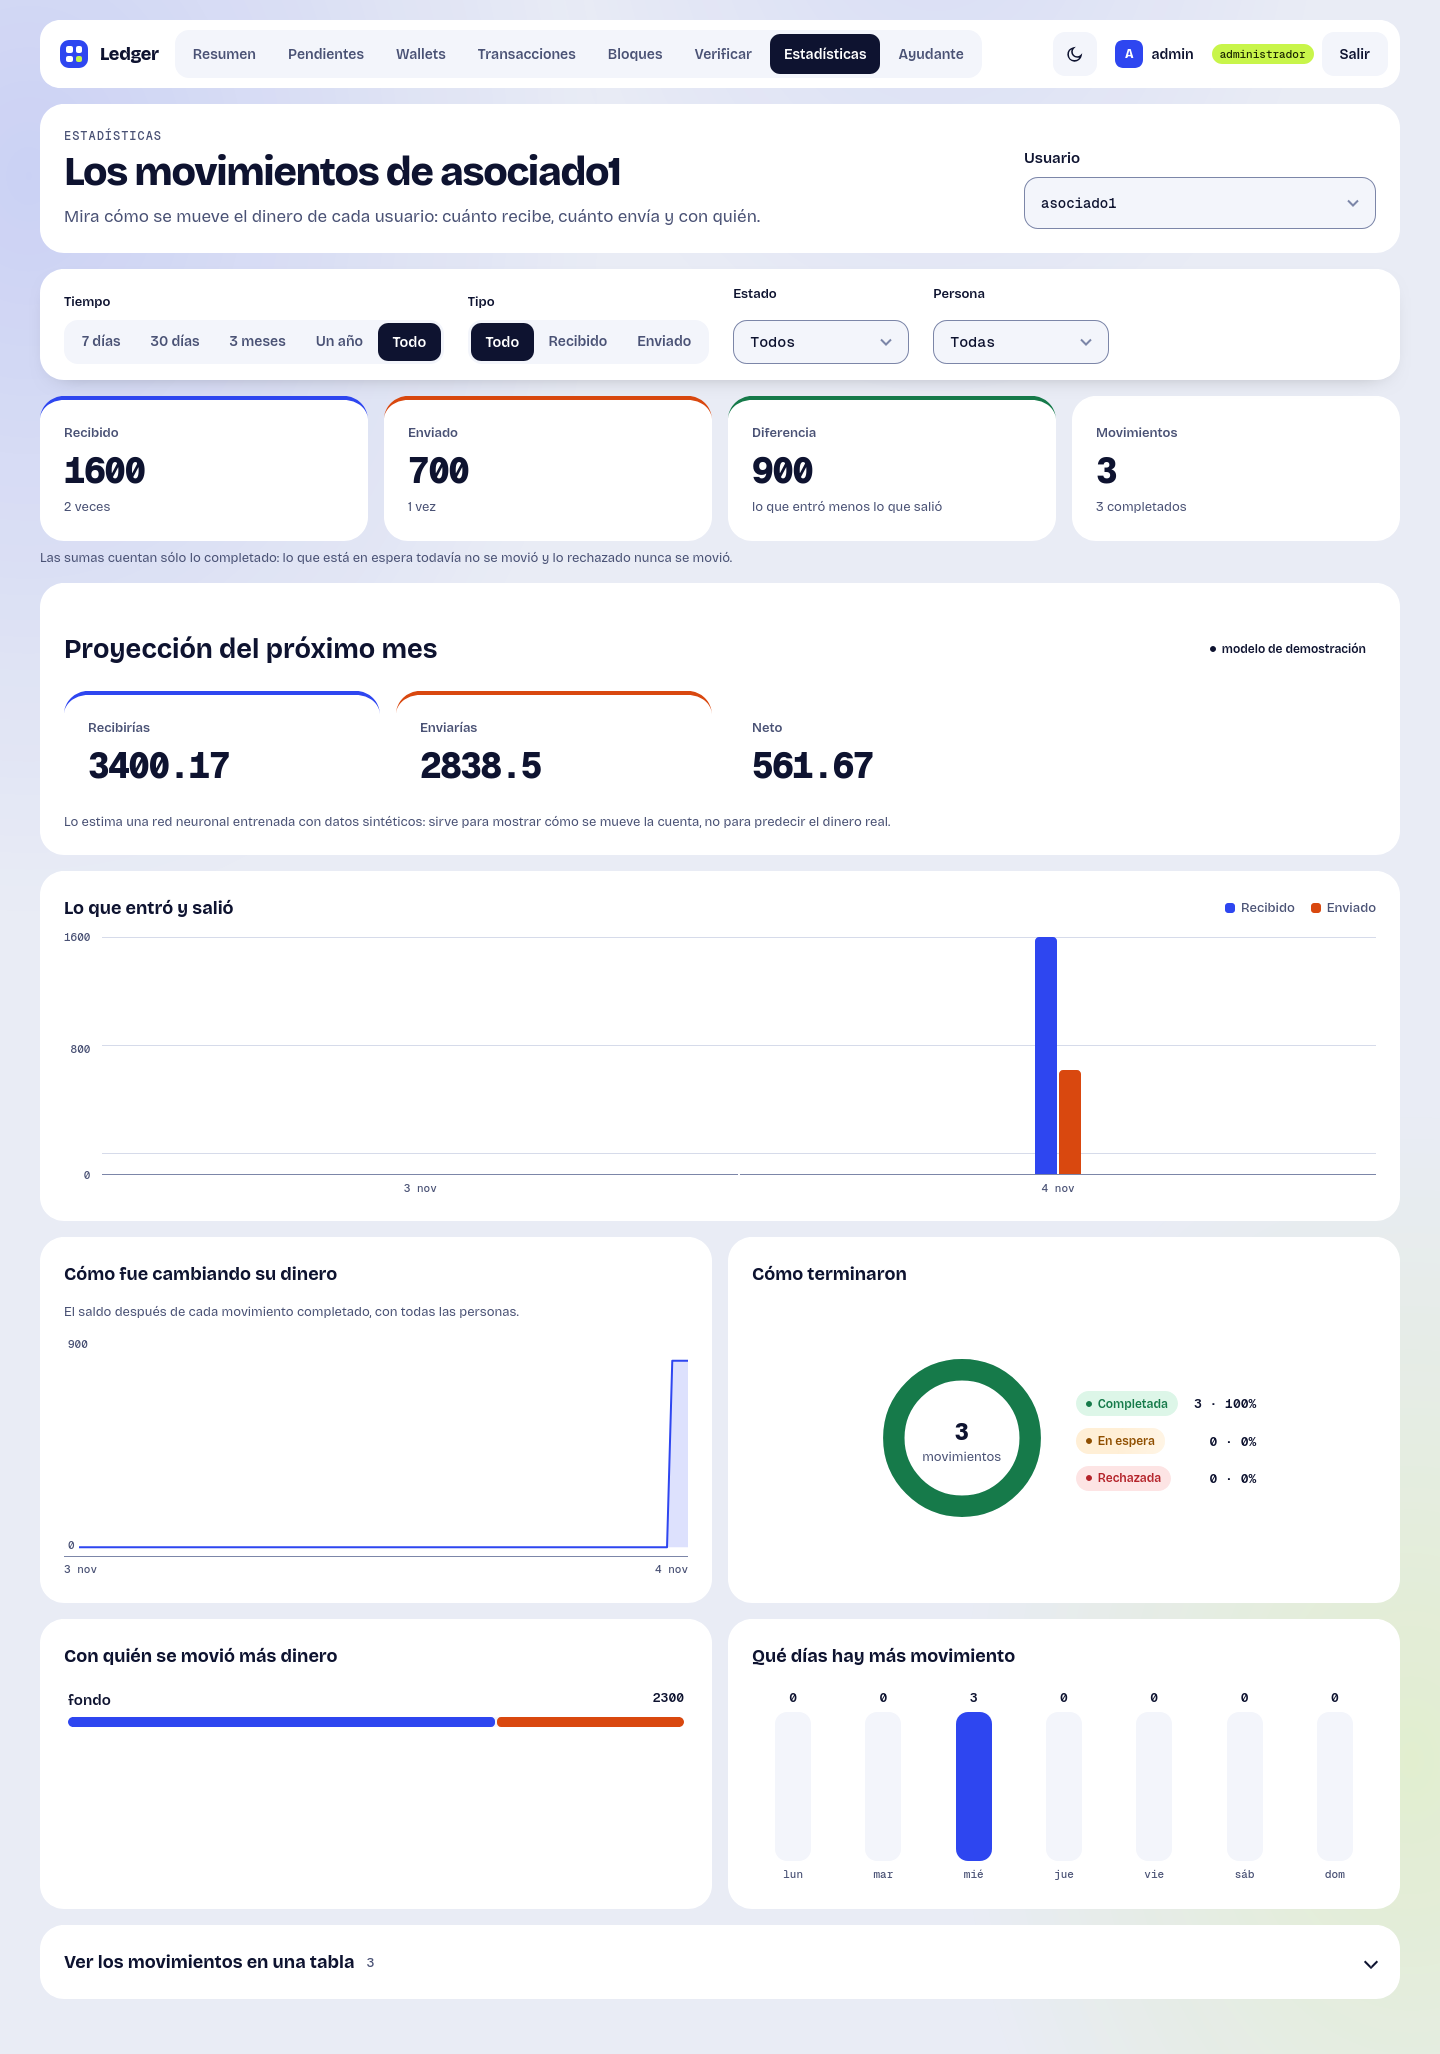
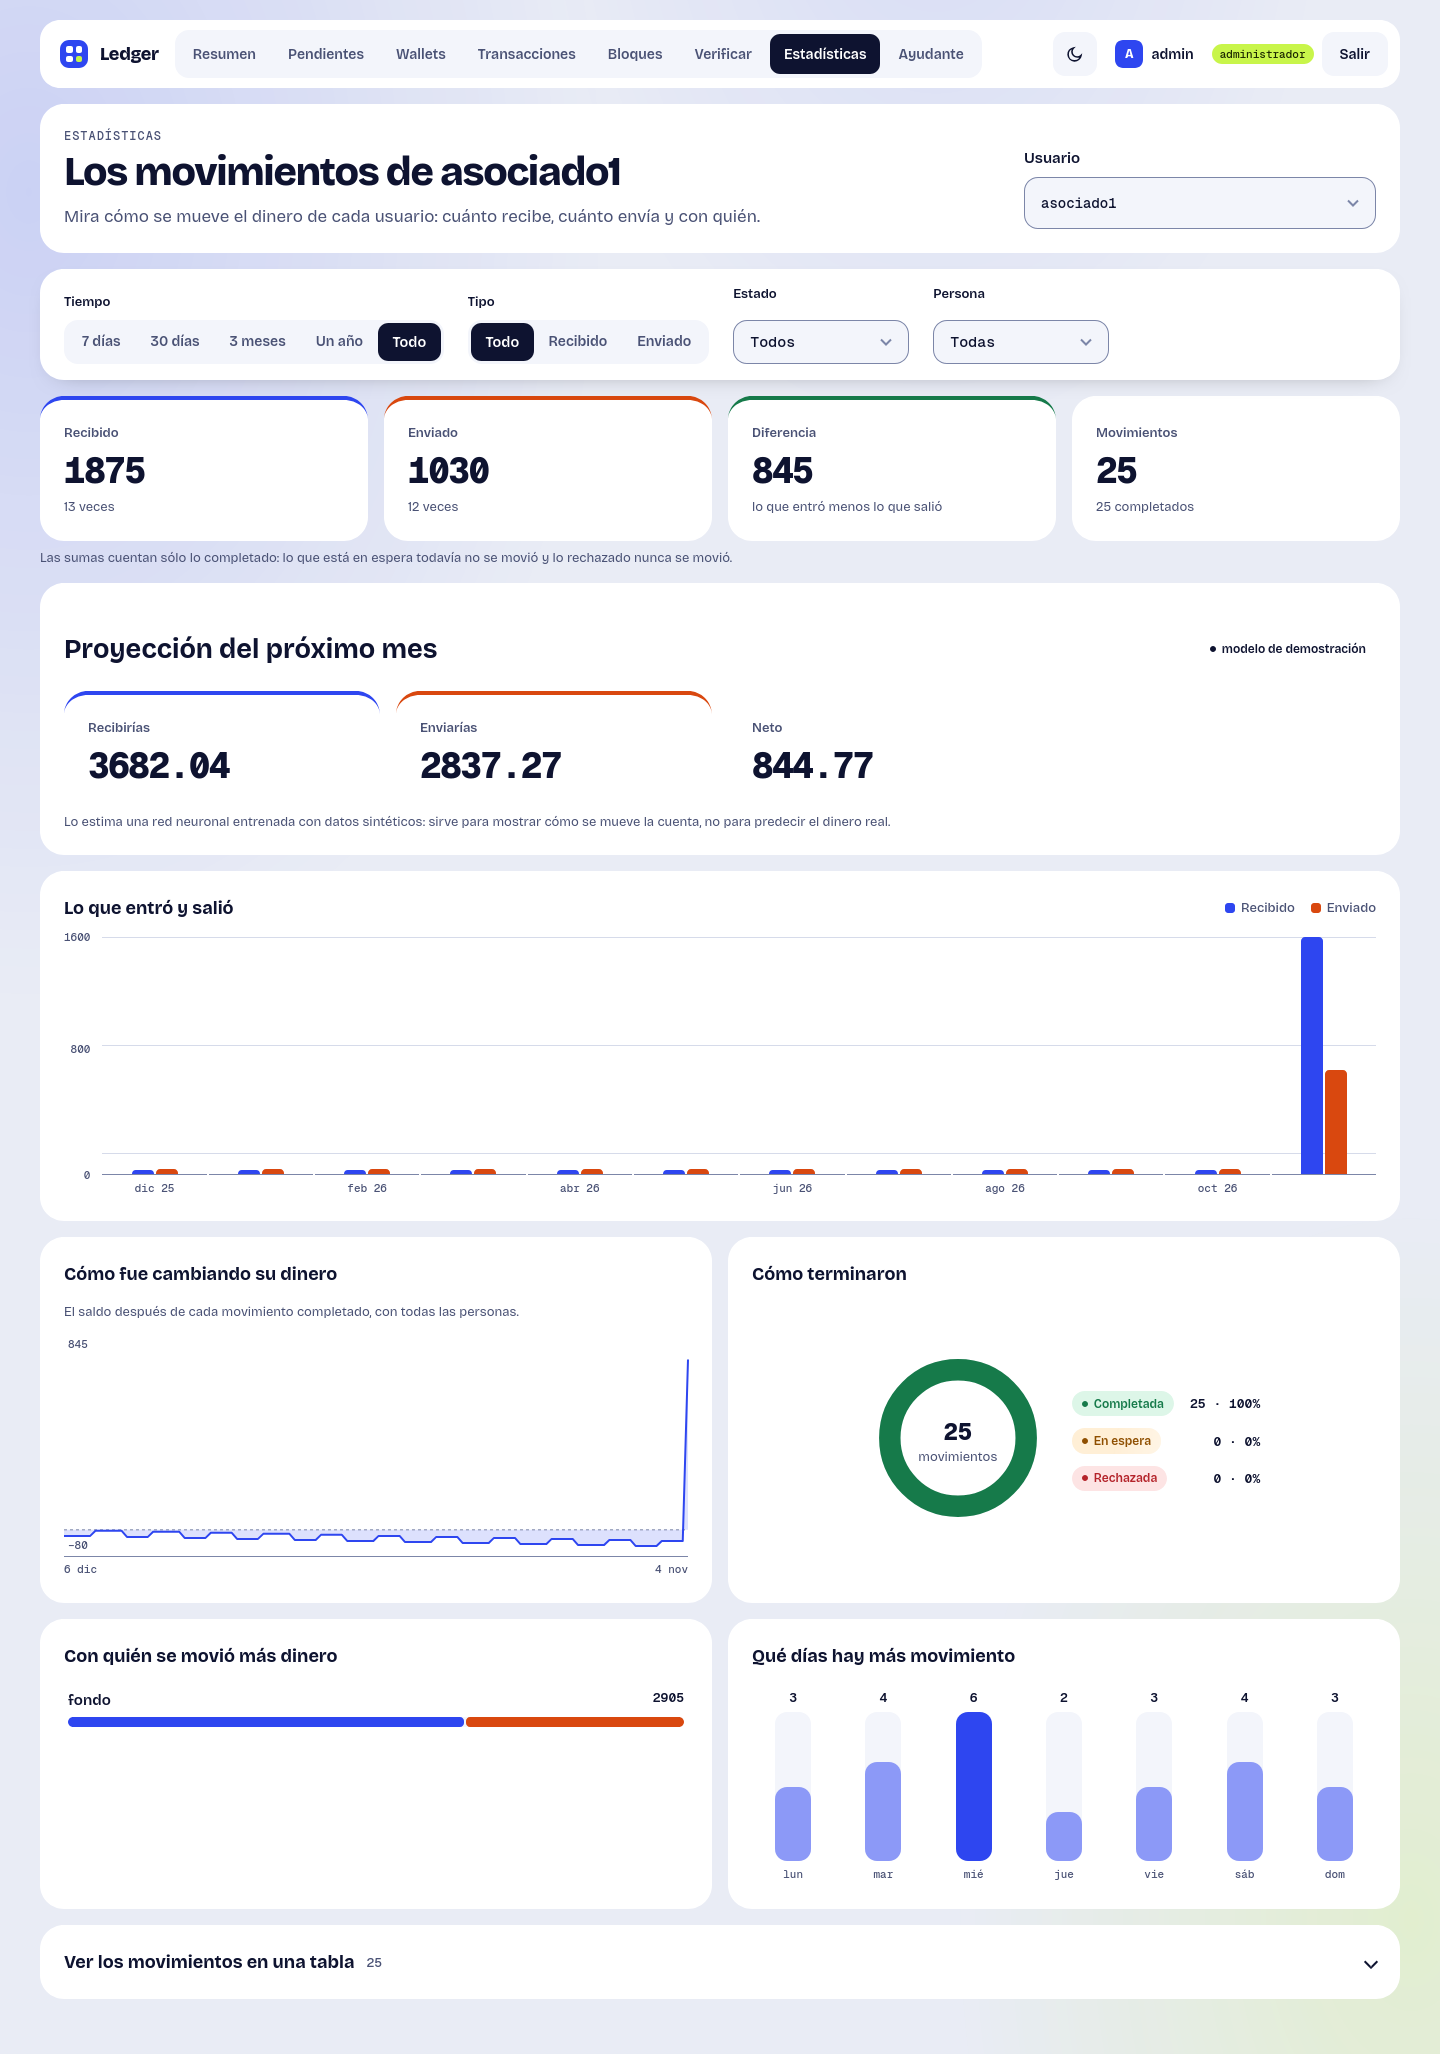
feat: historial de demostración de doce meses para las estadísticas
La semilla deja movimientos de un solo día: alcanza para ver la cadena, pero no una tendencia. El módulo nuevo agrega doce meses de aportes y retiros a las cuentas de demostración con el mismo camino que la aplicación: firma con la llave del emisor, validación del saldo y agrupación en un bloque encadenado.

Es idempotente: si el fondo ya tiene movimientos de más de 45 días, no hace nada. Los bloques nuevos llevan fechas del pasado y se agregan al final de la cadena, así que la verificación sigue siendo válida (comprueba el encadenamiento, no el orden cronológico).

Se regeneran las capturas de estadísticas con los doce meses, la evidencia de consulta con los conteos nuevos y la nota de la transcripción del flujo.

diff --git a/src/historial_demo.py b/src/historial_demo.py
@@ -1,0 +1,167 @@
+"""Historial de demostración: doce meses de aportes y retiros para las cuentas de prueba.
+
+La semilla deja el caso del eje con unos pocos movimientos del mismo día, que alcanza
+para mostrar que la cadena funciona pero no para mirar una tendencia: la página de
+estadísticas filtra por período y la proyección mira los últimos treinta y sesenta días,
+y con un solo día no hay nada que ver.
+
+Este módulo agrega doce meses de historia a las wallets que ya sembró el arranque, con
+el mismo camino que usa la aplicación: cada transacción se firma con la llave del
+emisor, se valida el saldo disponible y se agrupa en un bloque encadenado. No escribe
+filas a mano: si una transacción no fuera válida, no entraría.
+
+**Es idempotente**: si la wallet del fondo ya tiene un movimiento de hace más de 45
+días, no hace nada. Correrlo dos veces no duplica la historia.
+
+Uso:
+
+    <venv> -m src.historial_demo
+"""
+from __future__ import annotations
+
+from datetime import UTC, datetime, time, timedelta
+from decimal import Decimal
+
+import psycopg
+
+from src.accounts.postgres import PostgresAccountsRepository
+from src.bootstrap import FONDO
+from src.domain.blockchain import Blockchain
+from src.persistence.factory import database_url, master_key, open_ledger
+
+# Cuántos meses hacia atrás se siembran y qué se mueve en cada uno.
+MESES = 12
+# Aporte de cada asociado al fondo el día 6; retiro del fondo el día 21. Los montos
+# varían un poco entre meses para que las gráficas no salgan planas.
+APORTE = Decimal("30.00")
+RETIRO = Decimal("25.00")
+DIAS_DE_COBRANZA = 6
+DIAS_DE_RETIRO = 21
+# Si el fondo ya tiene un movimiento más viejo que esto, la historia ya está sembrada.
+UMBRAL_DE_HISTORIA = timedelta(days=45)
+
+# Las cuentas que aportan y reciben. Son sólo las tres de asociados: el fondo es la
+# contraparte y el constituyente ya tiene su papel en la emisión; si entraran en la
+# lista, el fondo se pagaría a sí mismo o le giraría al constituyente, que no es el
+# caso de uso de un fondo de empleados.
+ASOCIADOS_DE_LA_HISTORIA = ("asociado1", "asociado2", "asociado3")
+
+
+class Reloj:
+    """Reloj controlable: es el que sella los bloques con la fecha del mes que toca."""
+
+    def __init__(self, ahora: datetime) -> None:
+        self.ahora = ahora
+
+    def __call__(self) -> datetime:
+        return self.ahora
+
+
+def _primer_dia(meses_atras: int) -> datetime:
+    """El primer día del mes que está `meses_atras` meses antes del actual, en UTC."""
+    hoy = datetime.now(UTC)
+    anio, mes = hoy.year, hoy.month - meses_atras
+    while mes <= 0:
+        mes += 12
+        anio -= 1
+    return datetime(anio, mes, 1, tzinfo=UTC)
+
+
+def _fin_de_mes(inicio: datetime) -> datetime:
+    """El último día de ese mes a las 23:00, que es cuando se sella el bloque."""
+    siguiente = (inicio + timedelta(days=32)).replace(day=1)
+    return siguiente - timedelta(hours=1)
+
+
+def _ya_sembrada(chain: Blockchain, fondo_id) -> bool:
+    """Si el fondo ya tiene historia vieja, no hay nada que sembrar."""
+    limite = datetime.now(UTC) - UMBRAL_DE_HISTORIA
+    return any(
+        transaction.created_at < limite
+        for transaction in chain.wallet_history(fondo_id)
+    )
+
+
+def sembrar(
+    chain: Blockchain, usuarios: PostgresAccountsRepository, reloj: Reloj
+) -> tuple[int, int]:
+    """Siembra los meses que falten y devuelve cuántos bloques y transacciones agregó."""
+    fondo = chain.wallets.get_by_public_key(FONDO)
+    if fondo is None:
+        return 0, 0
+    if _ya_sembrada(chain, fondo.id):
+        return 0, 0
+
+    asociados = []
+    for nombre in ASOCIADOS_DE_LA_HISTORIA:
+        usuario = usuarios.get_by_username(nombre)
+        if usuario is not None and usuario.wallet_id is not None:
+            asociados.append(usuario.wallet_id)
+    if not asociados:
+        return 0, 0
+
+    bloques = transacciones = 0
+    for meses_atras in range(MESES - 1, -1, -1):
+        inicio = _primer_dia(meses_atras)
+        # Primero los aportes: el fondo necesita el saldo antes de girar los retiros.
+        for asociado in asociados:
+            resultado = chain.create_transaction(
+                sender_id=asociado,
+                receiver_id=fondo.id,
+                amount=APORTE,
+                created_at=datetime.combine(
+                    (inicio + timedelta(days=DIAS_DE_COBRANZA - 1)).date(),
+                    time(10, 0),
+                    tzinfo=UTC,
+                ),
+            )
+            transacciones += 1 if resultado.stored is not None else 0
+        for asociado in asociados:
+            resultado = chain.create_transaction(
+                sender_id=fondo.id,
+                receiver_id=asociado,
+                amount=RETIRO,
+                created_at=datetime.combine(
+                    (inicio + timedelta(days=DIAS_DE_RETIRO - 1)).date(),
+                    time(17, 0),
+                    tzinfo=UTC,
+                ),
+            )
+            transacciones += 1 if resultado.stored is not None else 0
+        reloj.ahora = _fin_de_mes(inicio)
+        if chain.group_pending() is not None:
+            bloques += 1
+    return bloques, transacciones
+
+
+def main() -> None:
+    """Abre la conexión, siembra la historia que falte e informa qué hizo."""
+    dsn = database_url()
+    with psycopg.connect(dsn, autocommit=True) as conexion:
+        # La misma zona que el resto del ledger: el hash cubre `isoformat()`.
+        conexion.execute("SET TIME ZONE 'UTC'")
+        reloj = Reloj(datetime.now(UTC))
+        chain = open_ledger(
+            conexion,
+            encryption_key=master_key(),
+            clock=reloj,
+            database_dsn=dsn,
+        )
+        usuarios = PostgresAccountsRepository(conexion)
+        bloques, transacciones = sembrar(chain, usuarios, reloj)
+        if bloques:
+            estado = chain.ledger_state()
+            print(
+                f"historial sembrado: {bloques} bloques y {transacciones} transacciones "
+                f"en {MESES} meses"
+            )
+            print(
+                f"estado del ledger: {estado['wallets']} wallets, {estado['blocks']} bloques, "
+                f"{estado['transactions']} transacciones"
+            )
+        else:
+            print("la historia ya estaba sembrada: no se agregó nada")
+
+
+if __name__ == "__main__":
+    main()

diff --git a/README.md b/README.md
@@ -324,7 +324,9 @@ el documento maestro se entregan aparte, no se versionan acá.
 (las de la sección siguiente). De las transacciones, 7 quedan confirmadas y 3
 pendientes, que son los retiros que `POST /bloques` agruparía a continuación. El
 ciclo es el del eje: el capital de constitución entra al ledger, el fondo reparte el
-capital de asociación, los asociados aportan y el fondo les gira retiros.
+capital de asociación, los asociados aportan y el fondo les gira retiros. Si después
+se corre `python -m src.historial_demo`, se suman **12 bloques y 72 transacciones**
+repartidas en doce meses (ver la sección anterior).
 
 | Actor          | Movimiento                                                                                               | Resultado                   |
 | -------------- | -------------------------------------------------------------------------------------------------------- | --------------------------- |
@@ -396,6 +398,24 @@ La clave pública del fondo se imprime con:
 ```text
 <venv> -c "from src.bootstrap import FONDO; print(FONDO)"
 ```
+
+## Más historial para las estadísticas
+
+La semilla deja movimientos de un solo día, que alcanzan para ver la cadena pero no una
+tendencia. Para que la página de estadísticas y la proyección tengan qué mostrar hay un
+segundo paso opcional que agrega **doce meses de aportes y retiros** a las cuentas de
+demostración, con el mismo camino que la aplicación (firma, validación de saldo y bloque
+encadenado):
+
+```text
+<venv> -m src.historial_demo
+```
+
+Es idempotente: si el fondo ya tiene movimientos de hace más de 45 días, no hace nada.
+La historia se agrega al final de la cadena con fechas del pasado, así que los bloques
+nuevos quedan con marcas de tiempo anteriores a las del último bloque que ya existía; la
+verificación sigue siendo válida porque comprueba el encadenamiento, no el orden
+cronológico.
 
 ## Las cuentas de demostración
 
